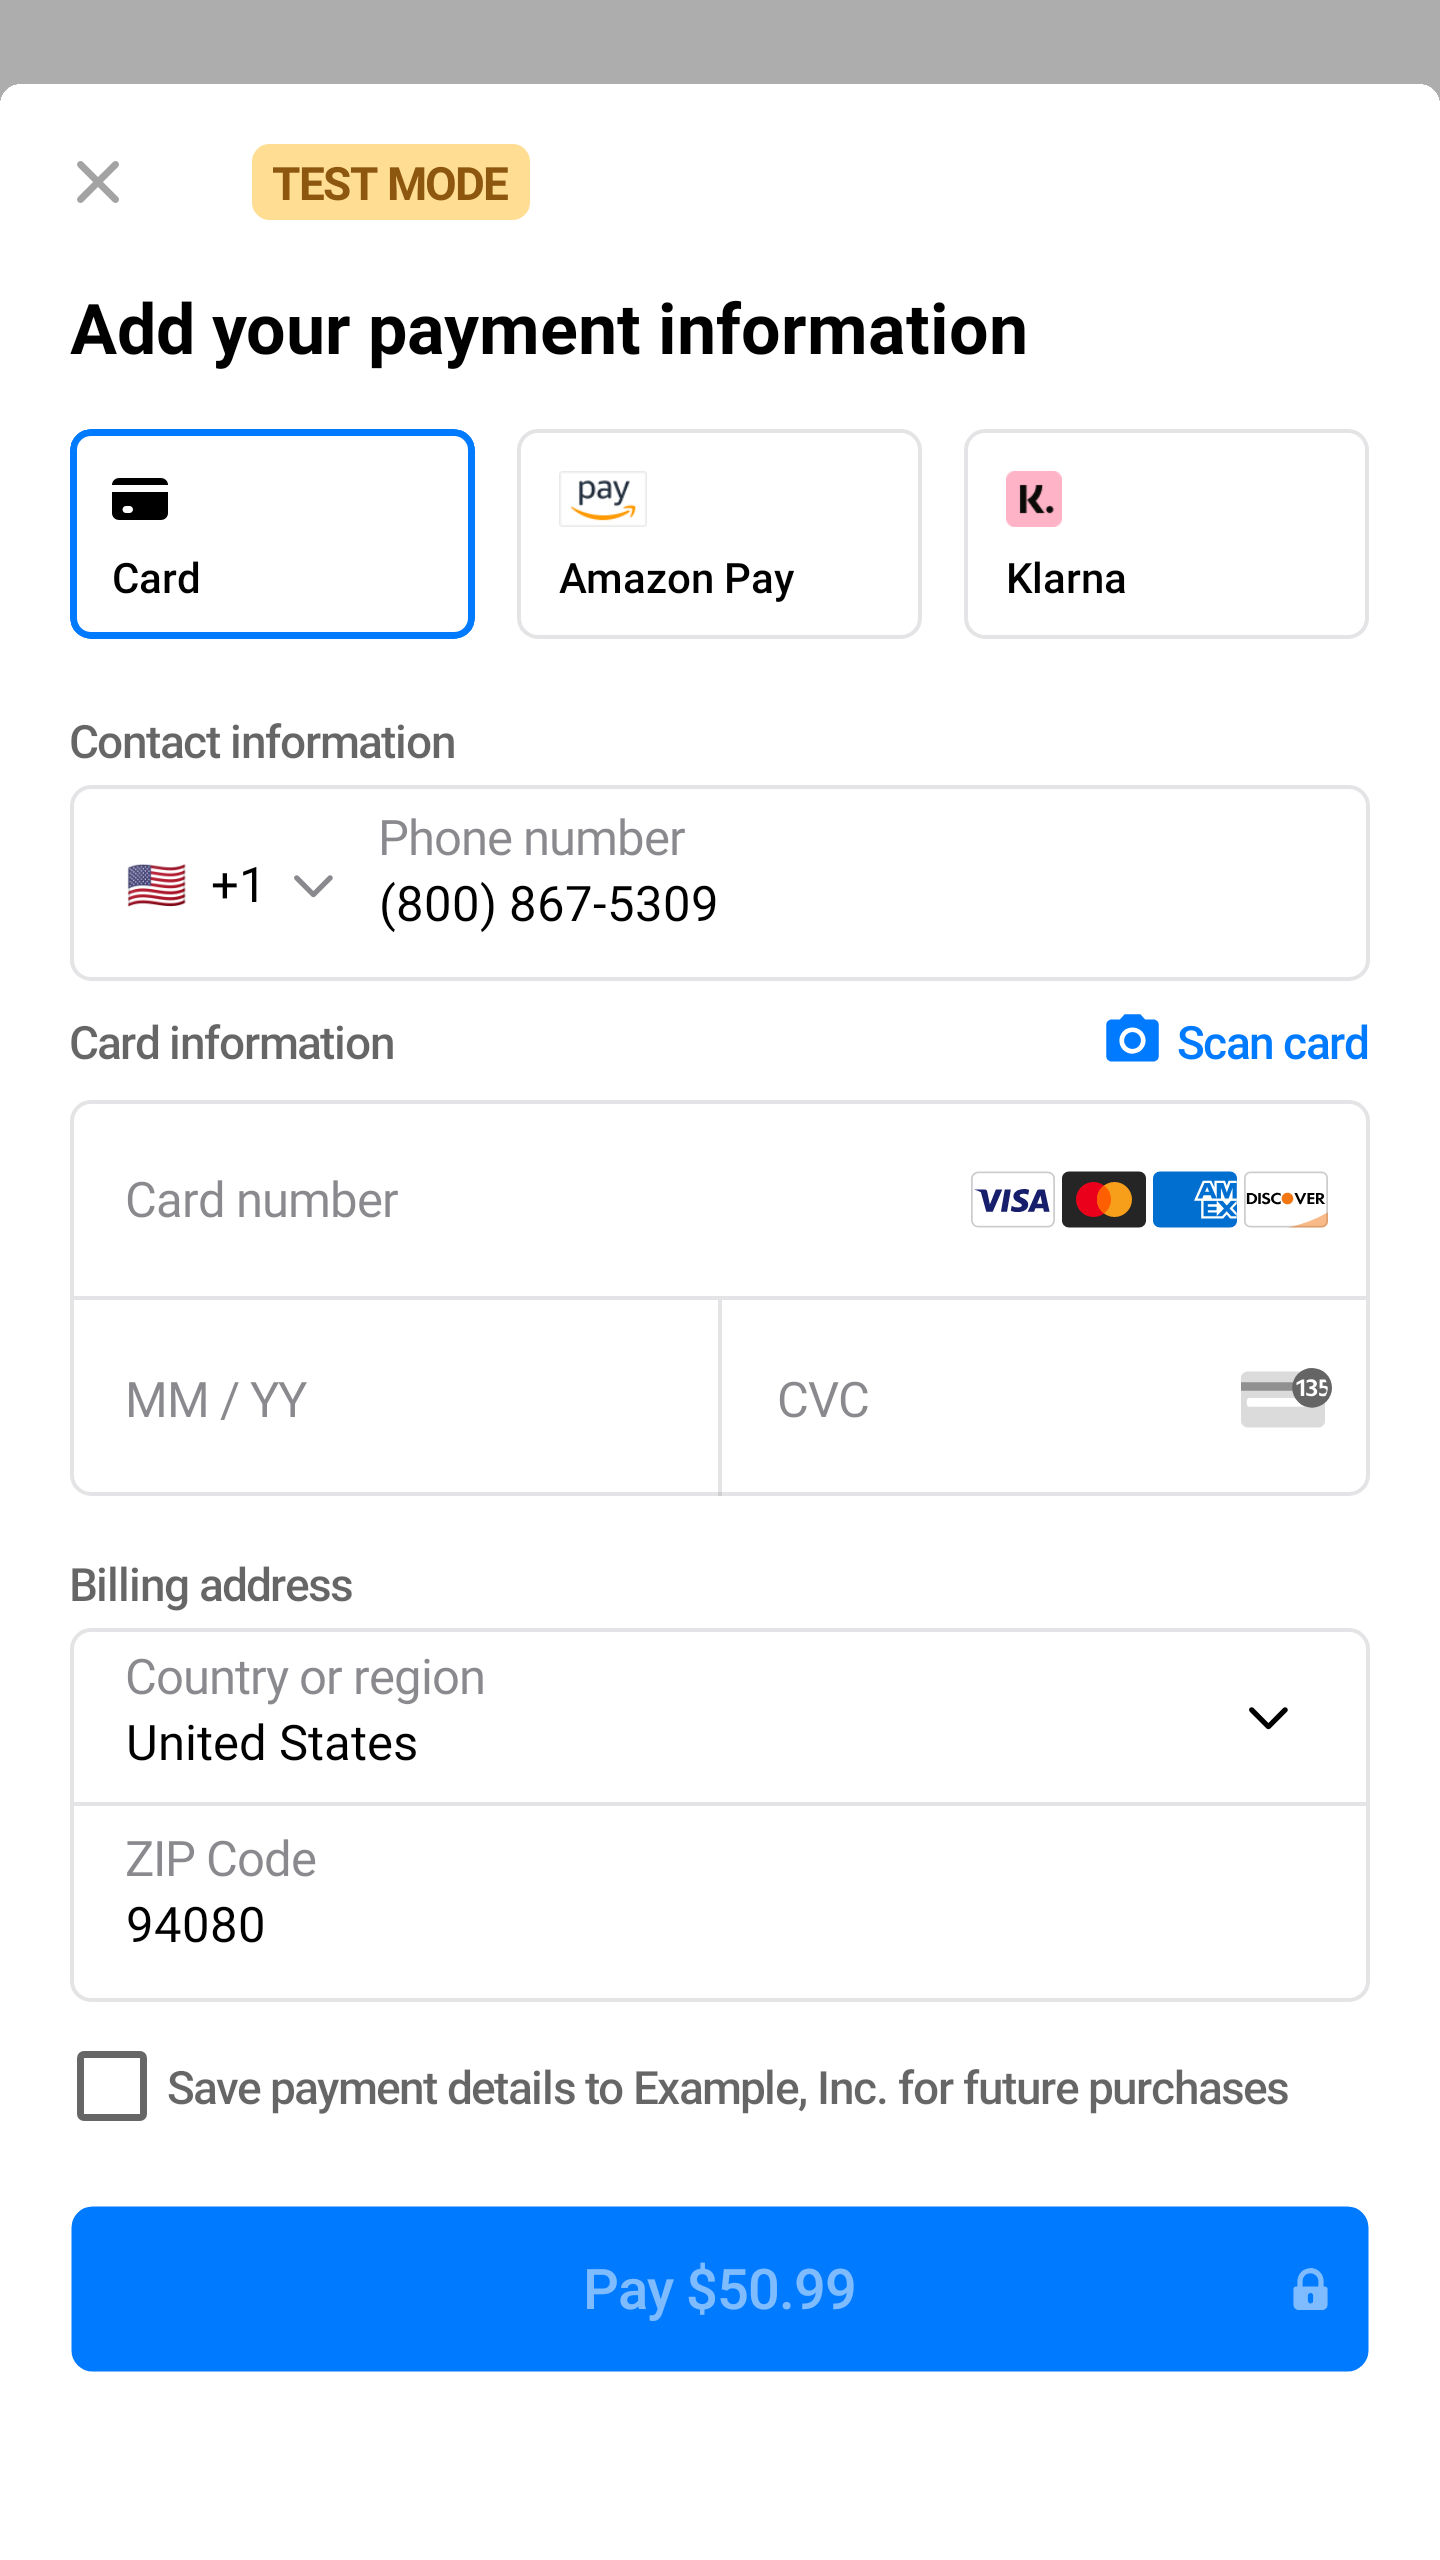
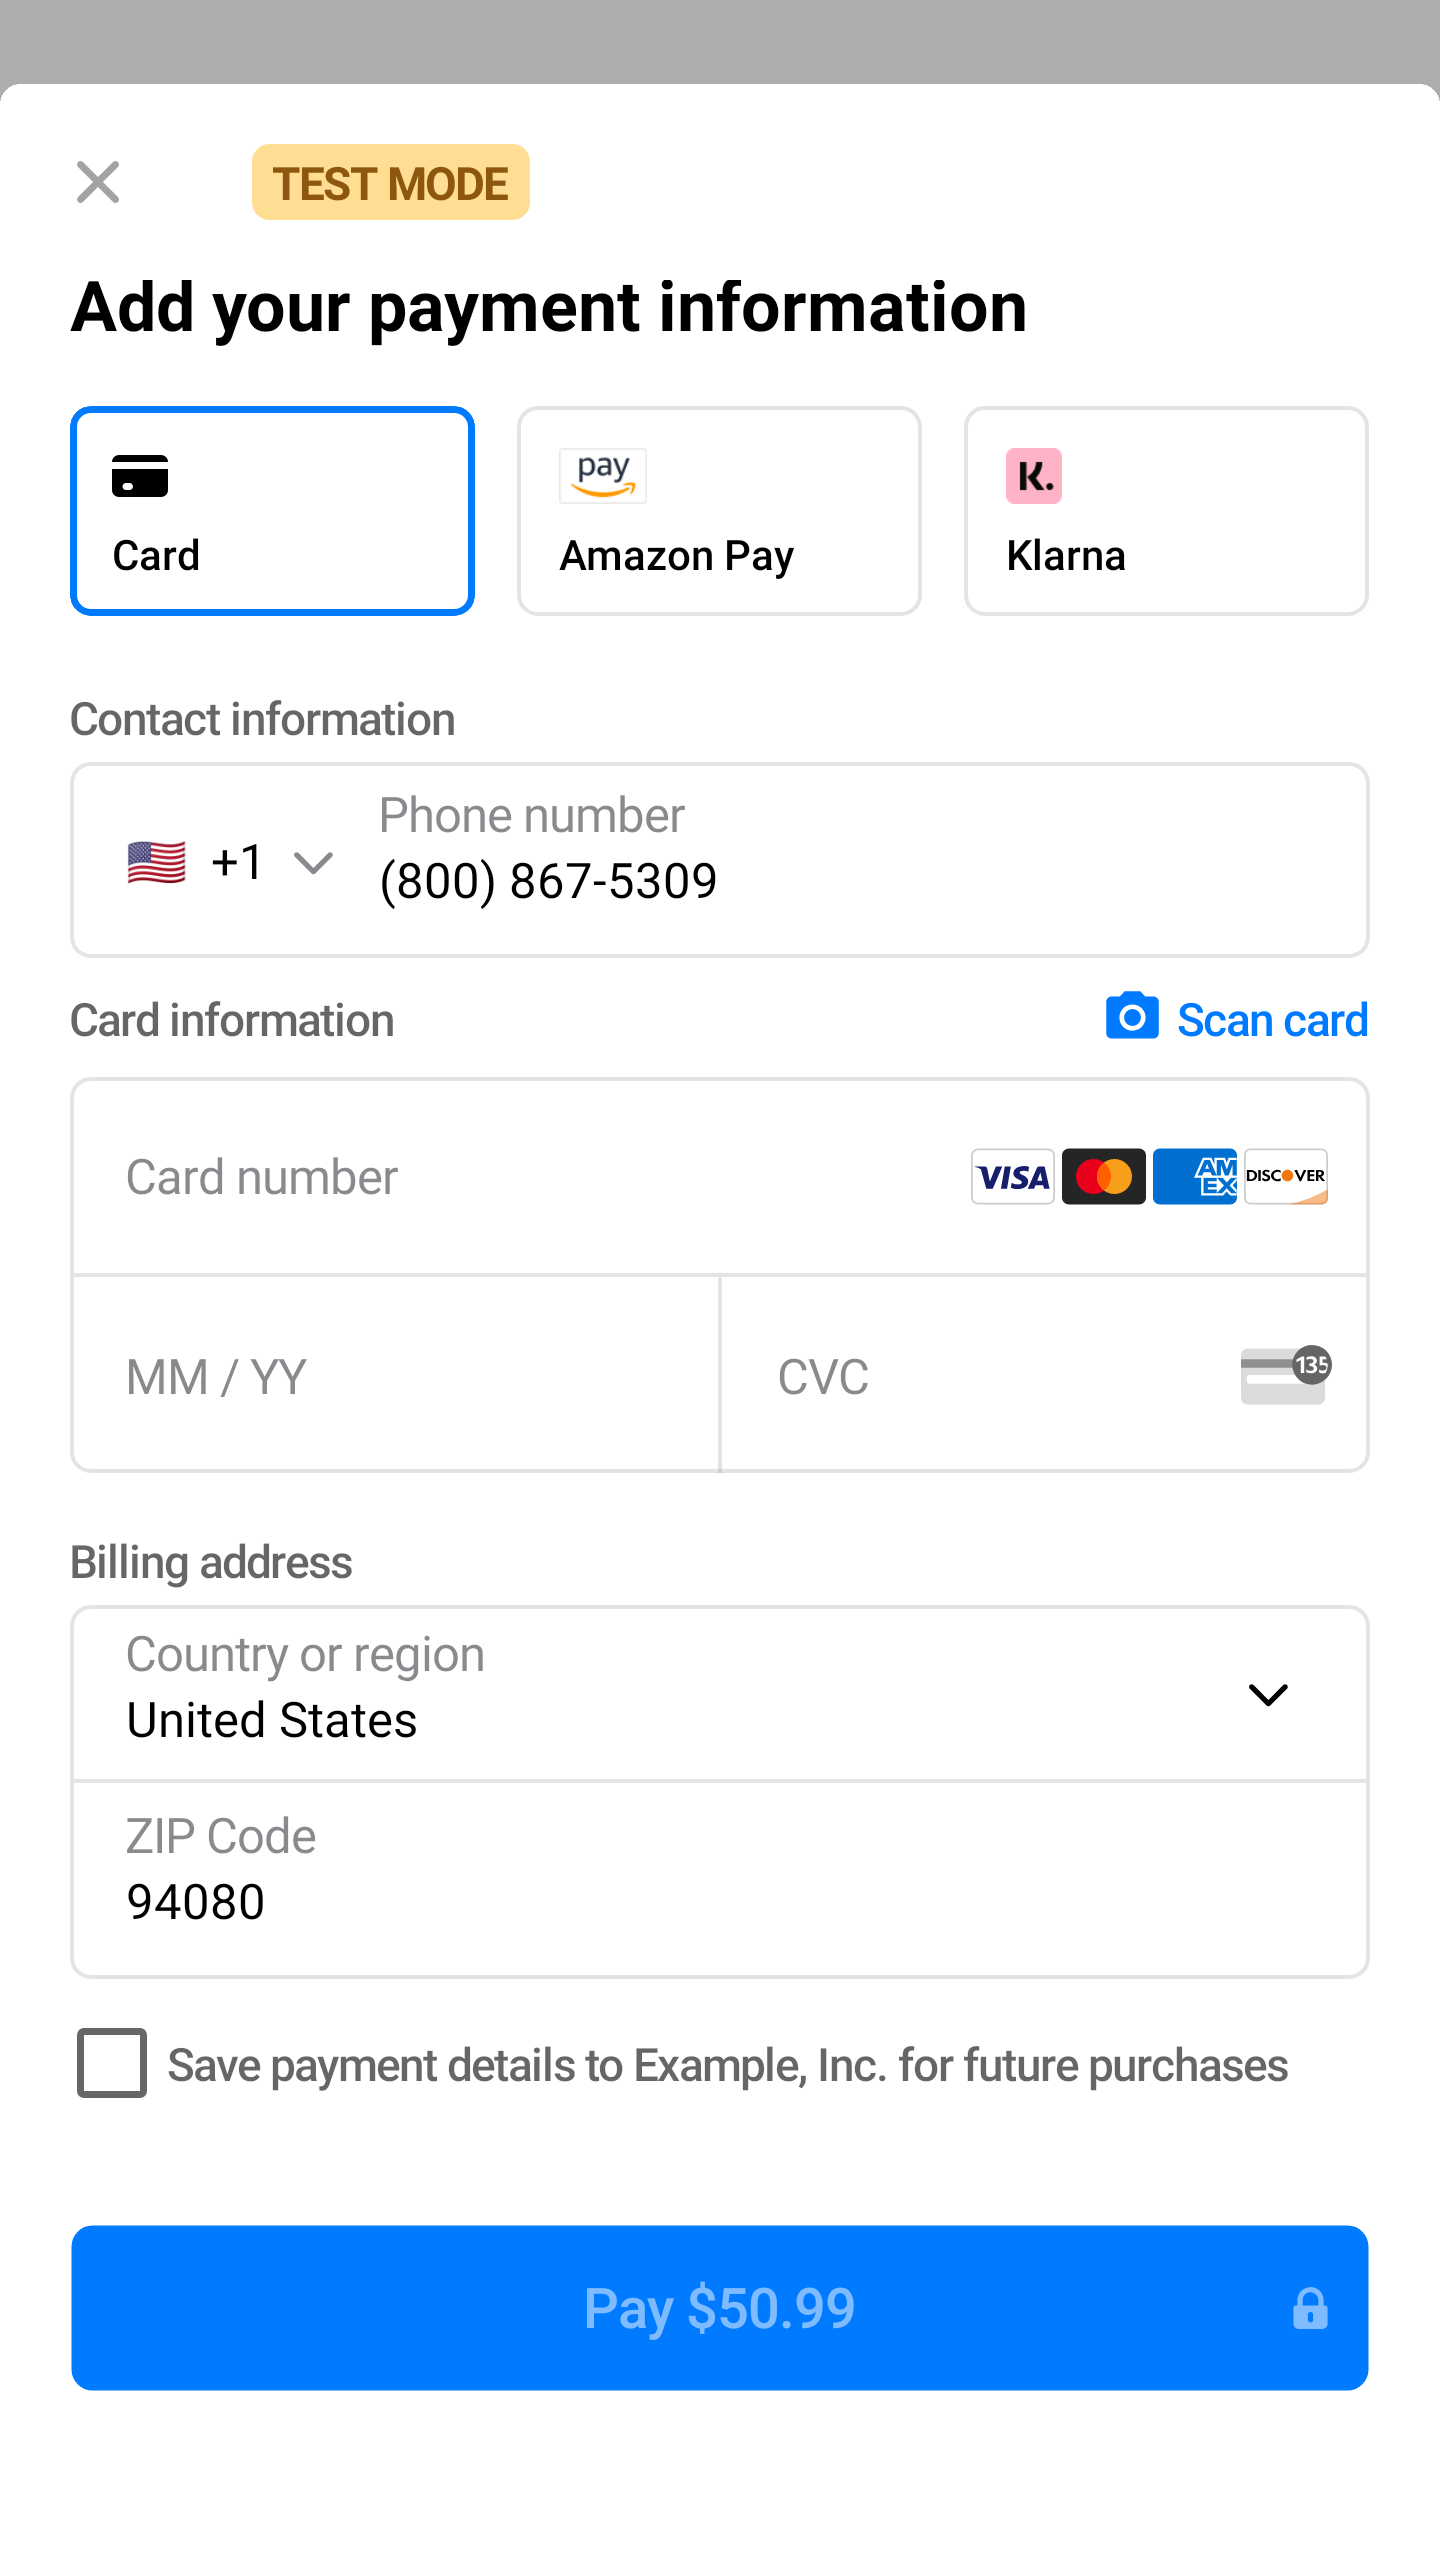
Update mandate style across `PaymentSheet` (#9086)

diff --git a/paymentsheet/src/main/java/com/stripe/android/paymentsheet/navigation/PaymentSheetScreen.kt b/paymentsheet/src/main/java/com/stripe/android/paymentsheet/navigation/PaymentSheetScreen.kt
@@ -34,6 +34,7 @@ import java.io.Closeable
 import com.stripe.android.R as PaymentsCoreR
 
 internal val verticalModeBottomContentPadding = 20.dp
+internal val horizontalBottomContentPadding = 12.dp
 internal val horizontalModeWalletsDividerSpacing = 16.dp
 internal val verticalModeWalletsDividerSpacing = 24.dp
 
@@ -147,7 +148,7 @@ internal sealed interface PaymentSheetScreen {
         override val showsBuyButton: Boolean = true
         override val showsContinueButton: Boolean = true
         override val topContentPadding: Dp = 0.dp
-        override val bottomContentPadding: Dp = 0.dp
+        override val bottomContentPadding: Dp = horizontalBottomContentPadding
         override val walletsDividerSpacing: Dp = horizontalModeWalletsDividerSpacing
 
         override fun topBarState(): StateFlow<PaymentSheetTopBarState?> {
@@ -195,7 +196,7 @@ internal sealed interface PaymentSheetScreen {
         override val showsBuyButton: Boolean = true
         override val showsContinueButton: Boolean = true
         override val topContentPadding: Dp = 0.dp
-        override val bottomContentPadding: Dp = 0.dp
+        override val bottomContentPadding: Dp = horizontalBottomContentPadding
         override val walletsDividerSpacing: Dp = horizontalModeWalletsDividerSpacing
 
         override fun topBarState(): StateFlow<PaymentSheetTopBarState?> {

diff --git a/payments-ui-core/src/main/java/com/stripe/android/ui/core/elements/MandateTextUI.kt b/payments-ui-core/src/main/java/com/stripe/android/ui/core/elements/MandateTextUI.kt
@@ -9,9 +9,9 @@ import androidx.compose.ui.Modifier
 import androidx.compose.ui.platform.testTag
 import androidx.compose.ui.res.stringResource
 import androidx.compose.ui.semantics.semantics
+import androidx.compose.ui.text.font.FontWeight
 import androidx.compose.ui.text.style.TextAlign
 import androidx.compose.ui.unit.dp
-import androidx.compose.ui.unit.sp
 import com.stripe.android.uicore.stripeColors
 
 @RestrictTo(RestrictTo.Scope.LIBRARY_GROUP)
@@ -24,11 +24,13 @@ fun MandateTextUI(
 ) {
     Text(
         text = stringResource(element.stringResId, *element.args.toTypedArray()),
-        style = MaterialTheme.typography.body1.copy(textAlign = TextAlign.Left),
-        color = MaterialTheme.stripeColors.subtitle,
-        fontSize = 11.sp,
+        style = MaterialTheme.typography.caption.copy(
+            textAlign = TextAlign.Start,
+            fontWeight = FontWeight.Normal,
+        ),
+        color = MaterialTheme.stripeColors.placeholderText,
         modifier = Modifier
-            .padding(vertical = 8.dp)
+            .padding(top = 2.dp)
             .semantics(mergeDescendants = true) {} // makes it a separate accessibile item
             .testTag(MANDATE_TEST_TAG)
     )
